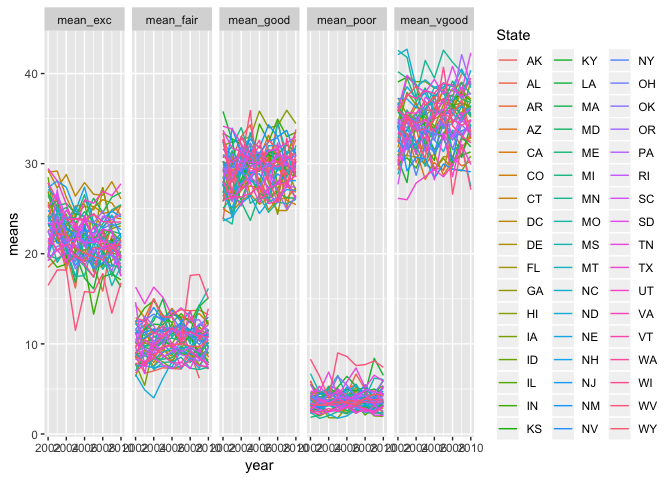
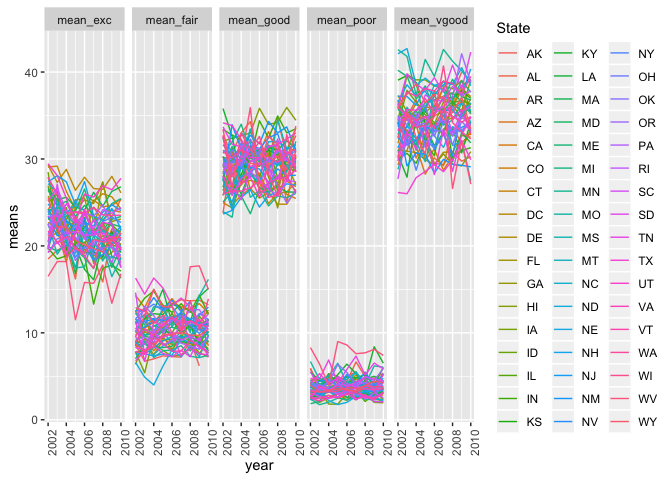
One last thing! My axis labels in one of my plots looked kind of funky.

diff --git a/p8105_hw3_tm2680.md b/p8105_hw3_tm2680.md
@@ -84,7 +84,8 @@ brfss_data %>%
   ggplot(aes(x = year, y = means, color = locationabbr)) +
   geom_line() + 
   facet_grid( ~ response) +
-  scale_color_hue(name = "State")
+  scale_color_hue(name = "State") + 
+  theme(axis.text.x = element_text(angle = 90))
 ```
 
 ![](p8105_hw3_tm2680_files/figure-markdown_github/brfss_prop_resp-1.png)
